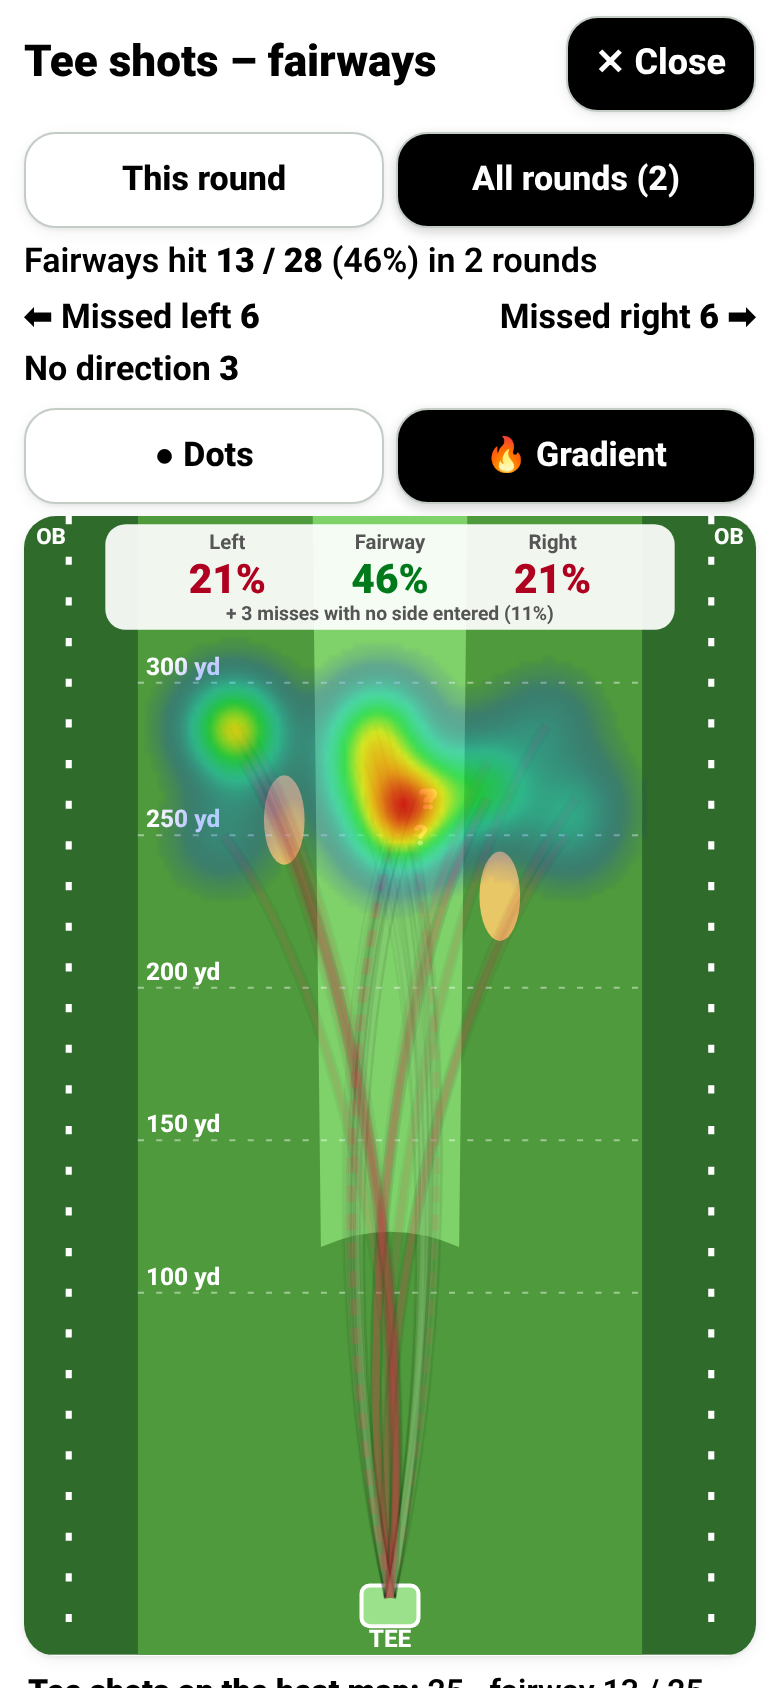
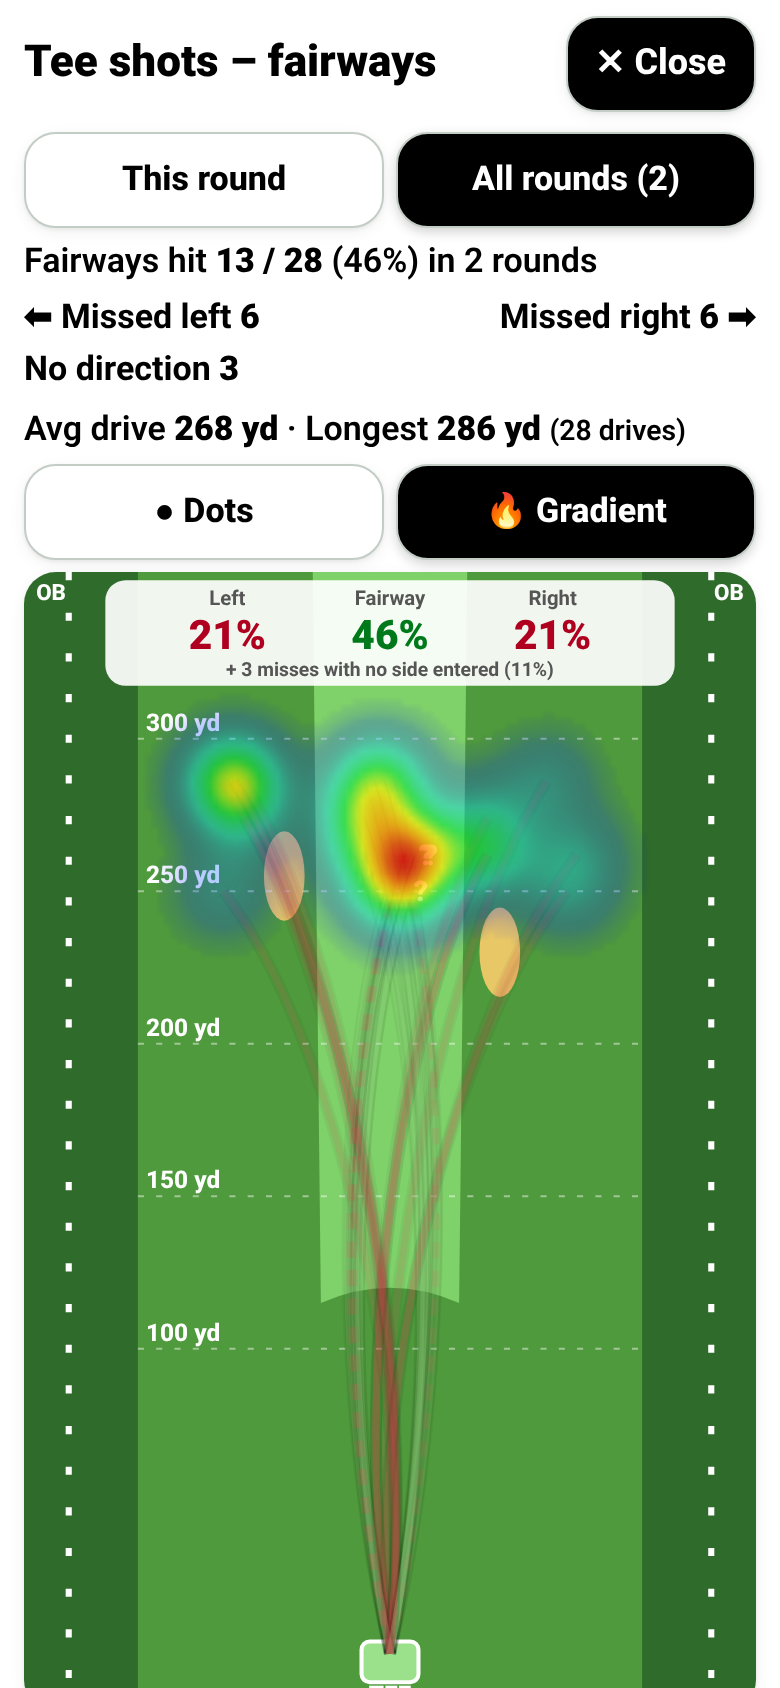
v65: avg/longest drive on tee map; PDF all-rounds tee + GIR heat map pages

Changed region(s): [[0.0308, 0.2156, 0.9846, 1.0], [0.1846, 0.7393, 0.2769, 0.8009], [0.1846, 0.6469, 0.2769, 0.7085]]

diff --git a/app.js b/app.js
@@ -138,6 +138,25 @@
     });
   }
   // Render one of the app's map views for THIS round and pull out its main SVG + stats text
+  // All-rounds gradient heat map for the PDF: render the map off-screen, paint the heat layer, then strip what the
+  // on-screen CSS would hide (dots, labels) so the SVG stands alone.
+  var HEAT_HIDE = '.fwdot, .xdot, .gdot, .mdot, .pdot, .pdot2, .pmend, .xlbl, .plbl, .pmlbl, .mlbl, .farlbl, .xstart, .mcount';
+  function heatReport(kind) {
+    var keep = { map: view.map, mapScope: view.mapScope, heat: view.heat, proxB: view.proxB, proxLie: view.proxLie, proxReport: view.proxReport, proxGroup: view.proxGroup };
+    view.map = kind; view.mapScope = 'all'; view.heat = 'grad'; view.proxReport = false; view.proxGroup = null;
+    var box = document.createElement('div'); box.style.cssText = 'position:fixed;left:-10000px;top:0;width:390px'; box.innerHTML = mapHTML(); document.body.appendChild(box);
+    var out = { svg: '', lines: [] };
+    try {
+      var mv = box.querySelector('#mapview'); applyHeat(mv); var svg = mv.querySelector('#' + HEAT_MAPS[kind]);
+      if (svg && svg.querySelector('#heatgrad')) { var c = svg.cloneNode(true); c.removeAttribute('class');
+        [].slice.call(c.querySelectorAll(HEAT_HIDE)).forEach(function (e) { e.remove(); });
+        [].slice.call(c.querySelectorAll('path[fill="none"]')).forEach(function (e) { if (!e.closest('#heatlayer')) e.setAttribute('opacity', '.12'); });
+        out.svg = c.outerHTML; }
+      var pr = [].slice.call(mv.querySelectorAll('#fwpct .fwpct')); if (pr.length) out.lines.push({ b: true, t: pr.map(function (e) { return { L: 'Left', F: 'Fairway', R: 'Right' }[e.getAttribute('data-k')] + ' ' + e.textContent; }).join('    |    ') + (mv.querySelector('#fwpctnote') ? '   (' + SG.pdfSafe(mv.querySelector('#fwpctnote').textContent) + ')' : '') });
+      ['#mapsum', '#fwdrive', '#heatsum'].forEach(function (q) { var e = mv.querySelector(q); if (e && SG.pdfSafe(e.textContent)) out.lines.push({ b: q !== '#heatsum', t: SG.pdfSafe(e.textContent) }); });
+    } finally { box.remove(); for (var k in keep) view[k] = keep[k]; }
+    return out;
+  }
   function mapForReport(kind, extra) {
     var keep = { pmG: view.pmG, proxGroup: view.proxGroup, map: view.map, mapScope: view.mapScope, proxB: view.proxB, proxLie: view.proxLie, puttN: view.puttN, proxReport: view.proxReport };
     view.map = kind; view.mapScope = 'round'; view.proxB = 'all'; view.proxLie = 'all'; view.proxReport = false; view.proxGroup = null; for (var k in (extra || {})) view[k] = extra[k];
@@ -340,9 +359,18 @@
         var L = plist.filter(function (m) { return SG.reportGroup(m.from) === g.id; }); return { g: g, L: L, P: SG.proxStats(L) }; }).filter(function (x) { return x.L.length; });
       var pi = pages.indexOf('PROX');
       pages.splice.apply(pages, [pi, 1].concat(gsum.map(function (x, k) { return ['Proximity – ' + x.g.name, 'prox', { proxReport: true, proxGroup: x.g.id }, x.g, k === 0]; })));
+      if (savedRounds().length > 1) pages.push(['Tee shots – all rounds heat map', 'fw', null, null, false, 'heat'], ['Greens in regulation – all rounds heat map', 'gir', null, null, false, 'heat']);
       var chain = Promise.resolve();
       pages.forEach(function (pg) {
         chain = chain.then(function () {
+          if (pg[5] === 'heat') { var hm = heatReport(pg[1]); if (!hm.svg) return;
+            return svgToPng(hm.svg, 1.5).then(function (im) { doc.addPage(); var yy = header(pg[0]), maxW = PW - 2 * M, sc = Math.min(maxW / im.w, (pg[1] === 'fw' ? 430 : 360) / im.h), w = im.w * sc, h = im.h * sc;
+              hm.lines.forEach(function (L) { font(L.b ? 10 : 9, !!L.b); var tl = doc.splitTextToSize(P(L.t), maxW); doc.text(tl, M, yy); yy += tl.length * 12 + 2; }); yy += 4;
+              doc.addImage(im.data, 'JPEG', M + (maxW - w) / 2, yy, w, h); yy += h + 14;
+              var ramp = [{ k: 'sw', c: '#0050ff', t: 'Blue = a few shots' }, { k: 'sw', c: '#00e63c', t: 'Green' }, { k: 'sw', c: '#fff000', t: 'Yellow' }, { k: 'sw', c: '#e60000', t: 'Red = the most shots' }];
+              legendBox(pg[1] === 'fw' ? ramp.concat([{ k: 'sw', c: '#7fd16a', t: 'Fairway' }, { k: 'sw', c: '#4f9a3c', t: 'Rough' }, { k: 'sw', c: '#e8c766', t: 'Bunker' }, { k: 'sw', c: '#2f6b2a', t: 'Trees' }, { k: 'dash', c: '#ffffff', t: 'White dashed line = OB' },
+                { k: 'none', t: 'All rounds, par 4 and 5 tee shots, layups left out. Placed by drive length, where it finished and the side missed (exact spot not recorded); OB drawn at 250 yd; misses with no side are not on the heat map. Top row: % missed left / fairway / % missed right.' }])
+                : ramp.concat([{ k: 'none', t: 'All rounds: where each green in regulation finished around the hole. White rings: 5 to 30 ft. (+) = average finish of all shots shown.' }]), M, yy, maxW, 2); }); }
           var mp = pg[1] === 'pin' ? { svg: pinReportSVG(segs), lines: [] } : mapForReport(pg[1], pg[2]);
           if (!mp.svg) return;
           return svgToPng(mp.svg, 2.5).then(function (im) {
@@ -1129,6 +1157,17 @@
       (nU ? '<text id="fwpctnote" x="180" y="51" text-anchor="middle" font-size="9.5" font-weight="700" fill="#555">+ ' + nU + ' miss' + (nU === 1 ? '' : 'es') + ' with no side entered (' + pc(nU) + ')</text>' : '') + '</g>';
     return out + '</svg>';
   }
+  // Drive distance = hole length minus the next shot's distance (the value used to place the shot). Par 4/5 tee shots only;
+  // no layups, OB or penalty tee shots, nor shots with no computable distance. If most of those have a club entered,
+  // only Driver shots count ('Driver'); otherwise every one counts ('Tee shots').
+  function fwDrives(list) {
+    var L = list.filter(function (m) { return !m.layup && m.kind !== 'ob' && !m.pen && m.hit != null && isFinite(m.hit) && m.hit > 0; });
+    var withClub = L.filter(function (m) { return m.club; }).length, drv = L.length && withClub / L.length > 0.5;
+    var U = drv ? L.filter(function (m) { return m.club === 'Driver'; }) : L, d = U.map(function (m) { return Number(m.hit); });
+    return { driverOnly: drv, n: d.length, avg: d.length ? Math.round(d.reduce(function (a, b) { return a + b; }, 0) / d.length) : null, max: d.length ? Math.max.apply(null, d) : null };
+  }
+  function fwDriveLine(list) { var V = fwDrives(list); if (!V.n) return '<p class="mapsum fwdrive" id="fwdrive">' + (V.driverOnly ? 'Driver' : 'Drives') + ': no measurable drives yet.</p>';
+    return '<p class="mapsum fwdrive" id="fwdrive" data-avg="' + V.avg + '" data-max="' + V.max + '" data-n="' + V.n + '" data-rule="' + (V.driverOnly ? 'driver' : 'all') + '">' + (V.driverOnly ? '<b>Driver</b> – avg' : 'Avg drive') + ' <b>' + V.avg + ' yd</b> · Longest <b>' + V.max + ' yd</b> <small>(' + V.n + ' drive' + (V.n === 1 ? '' : 's') + ')</small></p>'; }
   function fwHTML(list, all, D) {
     list = list.filter(function (m) { return !m.layup; }); // layup tee shots are left off this map (and its numbers) entirely
     var hit = list.filter(function (m) { return m.fairway; }).length, miss = list.filter(function (m) { return !m.fairway; });
@@ -1137,7 +1176,7 @@
     var out = '<p class="mapsum" id="mapsum">Fairways hit <b>' + hit + ' / ' + list.length + '</b>' + (list.length ? ' (' + Math.round(100 * hit / list.length) + '%)' : '') +
       (all ? ' in ' + D.rounds + ' round' + (D.rounds === 1 ? '' : 's') : ' this round') + '</p>' +
       '<div class="fwcounts" id="fwcounts"><span>⬅ Missed left <b>' + L + '</b></span><span>Missed right <b>' + R + '</b> ➡</span>' +
-      (miss.length - L - R ? '<span>No direction <b>' + (miss.length - L - R) + '</b></span>' : '') + '</div>' + fwSVG(list) +
+      (miss.length - L - R ? '<span>No direction <b>' + (miss.length - L - R) + '</b></span>' : '') + '</div>' + fwDriveLine(list) + fwSVG(list) +
       '<div class="legend"><span><i class="ln" style="background:#00a000"></i>Hit the fairway</span><span><i class="ln" style="background:#e0102a"></i>Missed</span>' +
       '<span><i class="ln dash"></i>Missed, no direction entered (ends straight up the middle)</span>' +
       ['fairway', 'rough', 'bunker', 'hazard', 'trees'].map(function (k) { return '<span><i class="dot" style="background:' + FW_END[k] + '"></i>Ended: ' + FW_NAME[k] + '</span>'; }).join('') +
@@ -1147,7 +1186,7 @@
       var l = miss.filter(function (m) { return m.kind === k && m.side === 'L'; }).length, r = miss.filter(function (m) { return m.kind === k && m.side === 'R'; }).length;
       out += '<tr data-kind="' + k + '"><td>' + FW_NAME[k] + '</td><td class="num">' + l + '</td><td class="num">' + r + '</td><td class="num">' + (by[k] || 0) + '</td></tr>';
     });
-    out += '</table><p class="help muted">Every tee shot on a par 4 or 5 (finished holes only; layup tee shots are left off this map and its percentages), drawn from the tee to the distance it went (hole length minus the distance left). ' +
+    out += '</table><p class="help muted">Every tee shot on a par 4 or 5 (finished holes only; layup tee shots are left off this map and its percentages). Avg / Longest drive = hole length minus the distance left for the next shot, leaving out OB and penalty tee shots; when most tee shots have a club entered only Driver shots count (labelled Driver), otherwise every tee shot counts, drawn from the tee to the distance it went (hole length minus the distance left). ' +
       'Left/right comes from the Dir you entered on row 2. Fairway hit = first tee shot finished on the fairway or green with no penalty. Bird\'s-eye view: the fairway runs away from you.</p>';
     return out;
   }
@@ -1263,8 +1302,8 @@
     var yd = list.every(function (p) { return p.u === 'yd'; }), v = list.reduce(function (a, p) { return a + (yd ? p.d : p.u === 'yd' ? p.d * 3 : p.d); }, 0) / list.length;
     return Math.round(v) + (yd ? ' yd' : ' ft');
   }
-  function applyHeat() {
-    var mv = document.getElementById('mapview'); if (!mv || !HEAT_MAPS[view.map]) return;
+  function applyHeat(root) {
+    var mv = root || document.getElementById('mapview'); if (!mv || !HEAT_MAPS[view.map]) return;
     var svg = mv.querySelector('#' + HEAT_MAPS[view.map]); if (!svg) return;
     var C = heatCenter(svg, view.map), NS = 'http://www.w3.org/2000/svg', pts = [];
     svg.querySelectorAll('[data-hd]').forEach(function (e) {

diff --git a/tests/pdfheat-focused.js b/tests/pdfheat-focused.js
@@ -1,0 +1,32 @@
+const { chromium } = require('playwright-core'); const assert = require('assert'); const { spawn, execSync } = require('child_process'); const fs = require('fs');
+const BASE = 'http://127.0.0.1:8784/', OUT = '/workspace/pdf-preview';
+(async () => {
+  const srv = spawn('python3', ['-m', 'http.server', '8784', '--bind', '127.0.0.1'], { cwd: '/workspace/golf-app', stdio: 'ignore' });
+  await new Promise(r => setTimeout(r, 1500)); const errors = [];
+  const b = await chromium.launch({ executablePath: '/usr/bin/google-chrome', args: ['--no-sandbox'] });
+  const ctx = await b.newContext({ viewport: { width: 390, height: 844 }, isMobile: true, hasTouch: true, acceptDownloads: true });
+  const page = await ctx.newPage(); page.setDefaultTimeout(120000); page.on('pageerror', e => errors.push(String(e))); page.on('dialog', d => d.accept());
+  await page.goto(BASE + '?x=' + Date.now());
+  await page.evaluate(() => { const R = (d, l, dir) => ({ dist: d, loc: l, dir: dir || '', pen: false }); const D = ['left', 'right', 'long', 'short', 'shortleft', 'longright'];
+    const T = [['fairway', ''], ['fairway', ''], ['rough', 'left'], ['rough', 'right'], ['fairway', ''], ['sand', 'right'], ['rough', 'left'], ['fairway', '']];
+    const mk = (id, day, k) => ({ v: 3, dv: 2, id, date: '2026-10-' + day + 'T17:00:00.000Z', course: 'Course ' + id, baseline: 'pga', player: 'Scott',
+      holes: Array.from({ length: 18 }, (_, i) => { const t = T[(i + k) % T.length], par = i % 6 === 2 ? 3 : i % 6 === 5 ? 5 : 4, yd = par === 3 ? 160 : par === 5 ? 520 : 400;
+        const rows = par === 3 ? [R(yd, 'tee'), R(10 + i, 'green', D[i % 6]), R(1, 'holed')] : [Object.assign(R(yd, 'tee'), { club: 'Driver' }), R(yd - 250 - (i % 4) * 12, t[0], t[1])].concat(par === 5 ? [R(90, 'fairway')] : []).concat([R(8 + (i * 5) % 25, 'green', D[(i + k) % 6]), R(1, 'holed')]);
+        return { par, pin: 'center', finished: true, rows }; }) });
+    localStorage.clear(); localStorage.setItem('golfsg.player.v1', 'Scott'); localStorage.setItem('golfsg.rounds.v1', JSON.stringify([mk('a', 12, 0), mk('b', 13, 3), mk('c', 14, 5)])); });
+  await page.reload(); await page.click('[data-act="history"]'); await page.click('#histlist [data-act="open"] >> nth=0');
+  await page.click('[data-act="pdf"]'); await page.waitForSelector('#pdfname', { timeout: 120000 });
+  await page.evaluate(() => { delete navigator.share; delete navigator.canShare; });
+  const dl = page.waitForEvent('download'); await page.click('[data-act="pdfshare"]'); const d = await dl;
+  fs.mkdirSync(OUT, { recursive: true }); const f = OUT + '/report-heat.pdf'; await d.saveAs(f);
+  const size = fs.statSync(f).size, pages = +/Pages:\s+(\d+)/.exec(execSync('pdfinfo ' + f).toString())[1];
+  const txt = execSync('pdftotext -layout ' + f + ' -').toString().split('\f');
+  const pT = txt.findIndex(t => t.includes('Tee shots - all rounds heat map')), pG = txt.findIndex(t => t.includes('Greens in regulation - all rounds heat map'));
+  assert.ok(pT > 0 && pG > 0, 'heat pages present'); console.log('pages', pages, 'size', size, 'tee page', pT + 1, 'gir page', pG + 1);
+  assert.match(txt[pT], /Driver - avg \d+ yd/); assert.match(txt[pT], /Longest \d+ yd/); assert.match(txt[pT], /Left/); assert.match(txt[pT], /Fairway/); assert.match(txt[pT], /Right/);
+  assert.match(txt[pT], /Red = the most shots/); assert.match(txt[pT], /layups left out/);
+  assert.match(txt[pG], /Average finish/); assert.match(txt[pG], /Red = the most shots/);
+  assert.ok(size < 1500000, 'email-friendly size ' + size);
+  execSync(`pdftoppm -png -r 80 -f ${pT + 1} -l ${pT + 1} -singlefile ${f} ${OUT}/pdf-tee-heat`); execSync(`pdftoppm -png -r 80 -f ${pG + 1} -l ${pG + 1} -singlefile ${f} ${OUT}/pdf-gir-heat`);
+  assert.deepStrictEqual(errors, []); console.log('PDFHEAT OK'); await b.close(); srv.kill();
+})().catch(e => { console.error(e); process.exit(1); });

diff --git a/tests/tee-focused.js b/tests/tee-focused.js
@@ -35,5 +35,17 @@ const BASE = 'http://127.0.0.1:8783/', OUT = '/workspace/golf-app/screenshots/';
   assert.match(await page.textContent('#heatnote'), /Layup tee shots are left off/);
   await page.locator('#heattog').scrollIntoViewIfNeeded(); await page.screenshot({ path: OUT + 'tee-pct-row.png' });
   await page.click('[data-act="heat"][data-v="dots"]'); await chk('all dots');
+  // drive distance: raw (hole length - next distance), par 4/5, no layup / OB / penalty
+  const exp = () => page.evaluate(() => { const rs = JSON.parse(localStorage.getItem('golfsg.rounds.v1')); const L = [];
+    rs.forEach(r => SG.summarize(r, 'pga').teeMap.forEach(m => { if (!m.layup && m.kind !== 'ob' && !m.pen && m.hit > 0) L.push(m); }));
+    const drv = L.filter(m => m.club).length / L.length > 0.5, U = drv ? L.filter(m => m.club === 'Driver') : L, d = U.map(m => m.hit);
+    return { avg: Math.round(d.reduce((a, b) => a + b, 0) / d.length), max: Math.max(...d), n: d.length, rule: drv ? 'driver' : 'all' }; });
+  const got = () => page.$eval('#fwdrive', e => ({ avg: +e.dataset.avg, max: +e.dataset.max, n: +e.dataset.n, rule: e.dataset.rule, t: e.textContent }));
+  let e1 = await exp(), g1 = await got(); console.log('all-rule', JSON.stringify(g1)); assert.deepStrictEqual({ avg: g1.avg, max: g1.max, n: g1.n, rule: g1.rule }, e1); assert.match(g1.t, /^Avg drive \d+ yd · Longest \d+ yd \(\d+ drives\)$/);
+  await page.locator('#fwdrive').scrollIntoViewIfNeeded(); await page.screenshot({ path: OUT + 'tee-drive-dist.png' });
+  // most tee shots have a club -> Driver only
+  await page.evaluate(() => { const rs = JSON.parse(localStorage.getItem('golfsg.rounds.v1')); rs.forEach(r => r.holes.forEach((h, i) => { h.rows[0].club = i % 4 === 3 ? '3W' : 'Driver'; })); localStorage.setItem('golfsg.rounds.v1', JSON.stringify(rs)); });
+  await page.reload(); await page.click('[data-act="history"]'); await page.click('#histlist [data-act="open"] >> nth=0'); await page.click('[data-act="map"][data-v="fw"]'); await page.click('[data-act="mapscope"][data-v="all"]'); await page.waitForSelector('#fwdrive');
+  e1 = await exp(); g1 = await got(); console.log('driver-rule', JSON.stringify(g1)); assert.strictEqual(e1.rule, 'driver'); assert.deepStrictEqual({ avg: g1.avg, max: g1.max, n: g1.n, rule: g1.rule }, e1); assert.match(g1.t, /^Driver – avg/);
   assert.deepStrictEqual(errors, []); console.log('TEE OK'); await b.close(); srv.kill();
 })().catch(e => { console.error(e); process.exit(1); });

diff --git a/sg.js b/sg.js
@@ -509,7 +509,7 @@
       if (a.fairway !== null) {
         var t = a.shots[0], kind = a.fairway ? 'fairway' : t.ob ? 'ob' : TEE_END[t.loc] || 'rough';
         S.teeMap.push({ hole: hi + 1, par: Number(h.par), hit: t.ob ? null : t.hit, fairway: a.fairway, kind: kind, side: t.side, dir: t.dir,
-          yards: holeYards(h), pen: t.penStrokes > 0, layup: !!t.layup });
+          yards: holeYards(h), pen: t.penStrokes > 0, layup: !!t.layup, club: t.club || '' });
       }
       if (ap && ap.gir) {
         S.girMap.push({ hole: hi + 1, pin: normPin(h.pin), shot: ap.shot, par: Number(h.par), dir: ap.dir,

diff --git a/sw.js b/sw.js
@@ -1,5 +1,5 @@
 // Offline support: cache the whole app on install, serve cache-first.
-const CACHE = 'golf-sg-v64';
+const CACHE = 'golf-sg-v65';
 const ASSETS = ['./', './index.html', './styles.css', './sg.js', './app.js', './config.js', './onedrive.js', './vendor/msal-browser.min.js', './vendor/jspdf.umd.min.js',
   './manifest.webmanifest', './icons/apple-touch-icon.png', './icons/icon-192.png',
   './icons/icon-512.png', './icons/icon-512-maskable.png'];
